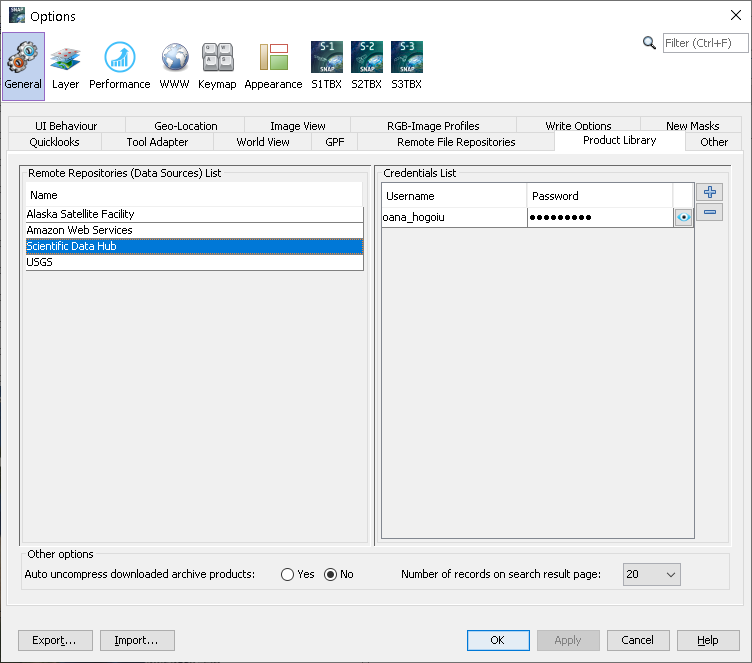
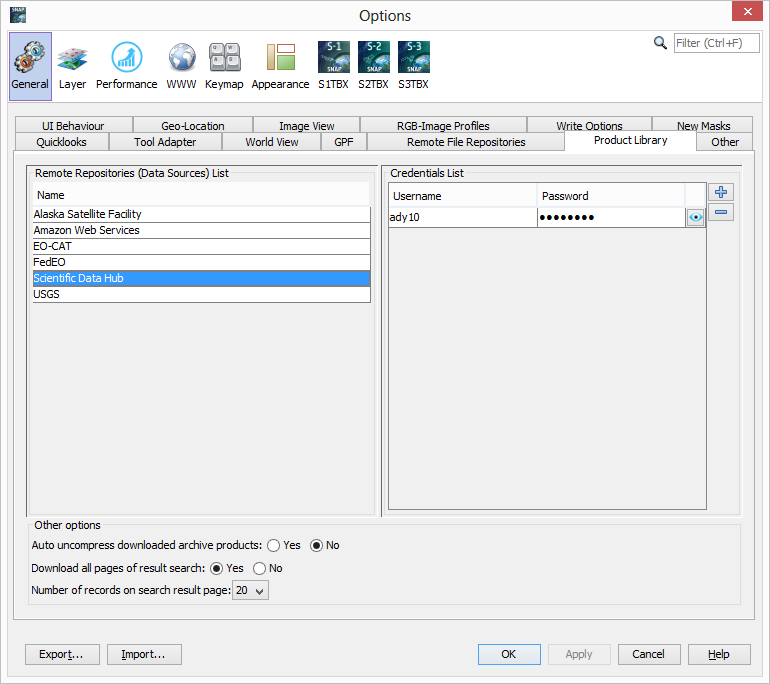
SNAP-1395: Update Product Library Help page after changes.

diff --git a/snap-product-library-ui-v2/src/main/resources/org/esa/snap/product/library/ui/v2/docs/ProductLibraryTool.html b/snap-product-library-ui-v2/src/main/resources/org/esa/snap/product/library/ui/v2/docs/ProductLibraryTool.html
@@ -73,6 +73,7 @@
 		</span>
 		<ul>
 			<li>auto-uncompress of compressed products after download</li>
+			<li>download all pages of search results</li>
 			<li>the number of entries on results page</li>
 		</ul>
 		
@@ -87,6 +88,10 @@
 			<li>Start Date</li>
 			<li>End Date</li>
 			<li>Area of Interest (AOI)</li>
+			<li>Username and Password when the remote repository uses another authentication for query, and not uses the download credentials. </li>
+			<p class="inote">
+				<b>Note</b>: The credentials used as search parameters will be saved securely on the Product Library config file for later usage (will be prefilled), when the search operation succeeds. <br/>
+			</p>
 		</ul>
 		
 		<img alt="search-results" src="images/search-results.png">
@@ -121,6 +126,9 @@
 		<p>
 			To download products press the mouse right button on the selected products and select the Download option. Then select
 			the local folder used to save the products. After downloading a product into a local folder, the product can be opened in the application.
+		</p>
+		<p>
+			Some remote repositories may produce the product on the fly, to download, so the download process will start after some time, when the product is ready to be downloaded. The Product Library will try to download the product from time to time, at some interval (initially 10 seconds and increase by 10 seconds on every try), and the status of downloading product will appear as 'queued' until the actual download is done.
 		</p>
 
 		<h4>Local repository</h4>
